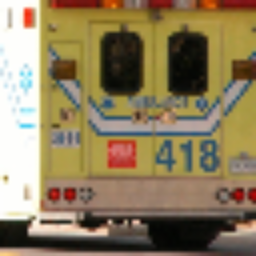
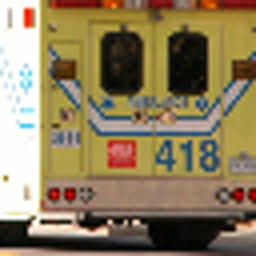
new

diff --git a/preprocess.py b/preprocess.py
@@ -34,7 +34,7 @@ def down(path, factor):
         new_height = h / factor
         new_width = w / factor
         img = cv2.resize(img, (int(new_width), int(new_height)), interpolation = cv2.INTER_CUBIC)
-        img = cv2.resize(img, (w, h), interpolation = cv2.INTER_LINEAR)
+        img = cv2.resize(img, (w, h), interpolation = cv2.INTER_CUBIC)
         time.sleep(0.2)
         print('Saving {}'.format(file))
         print(file)
